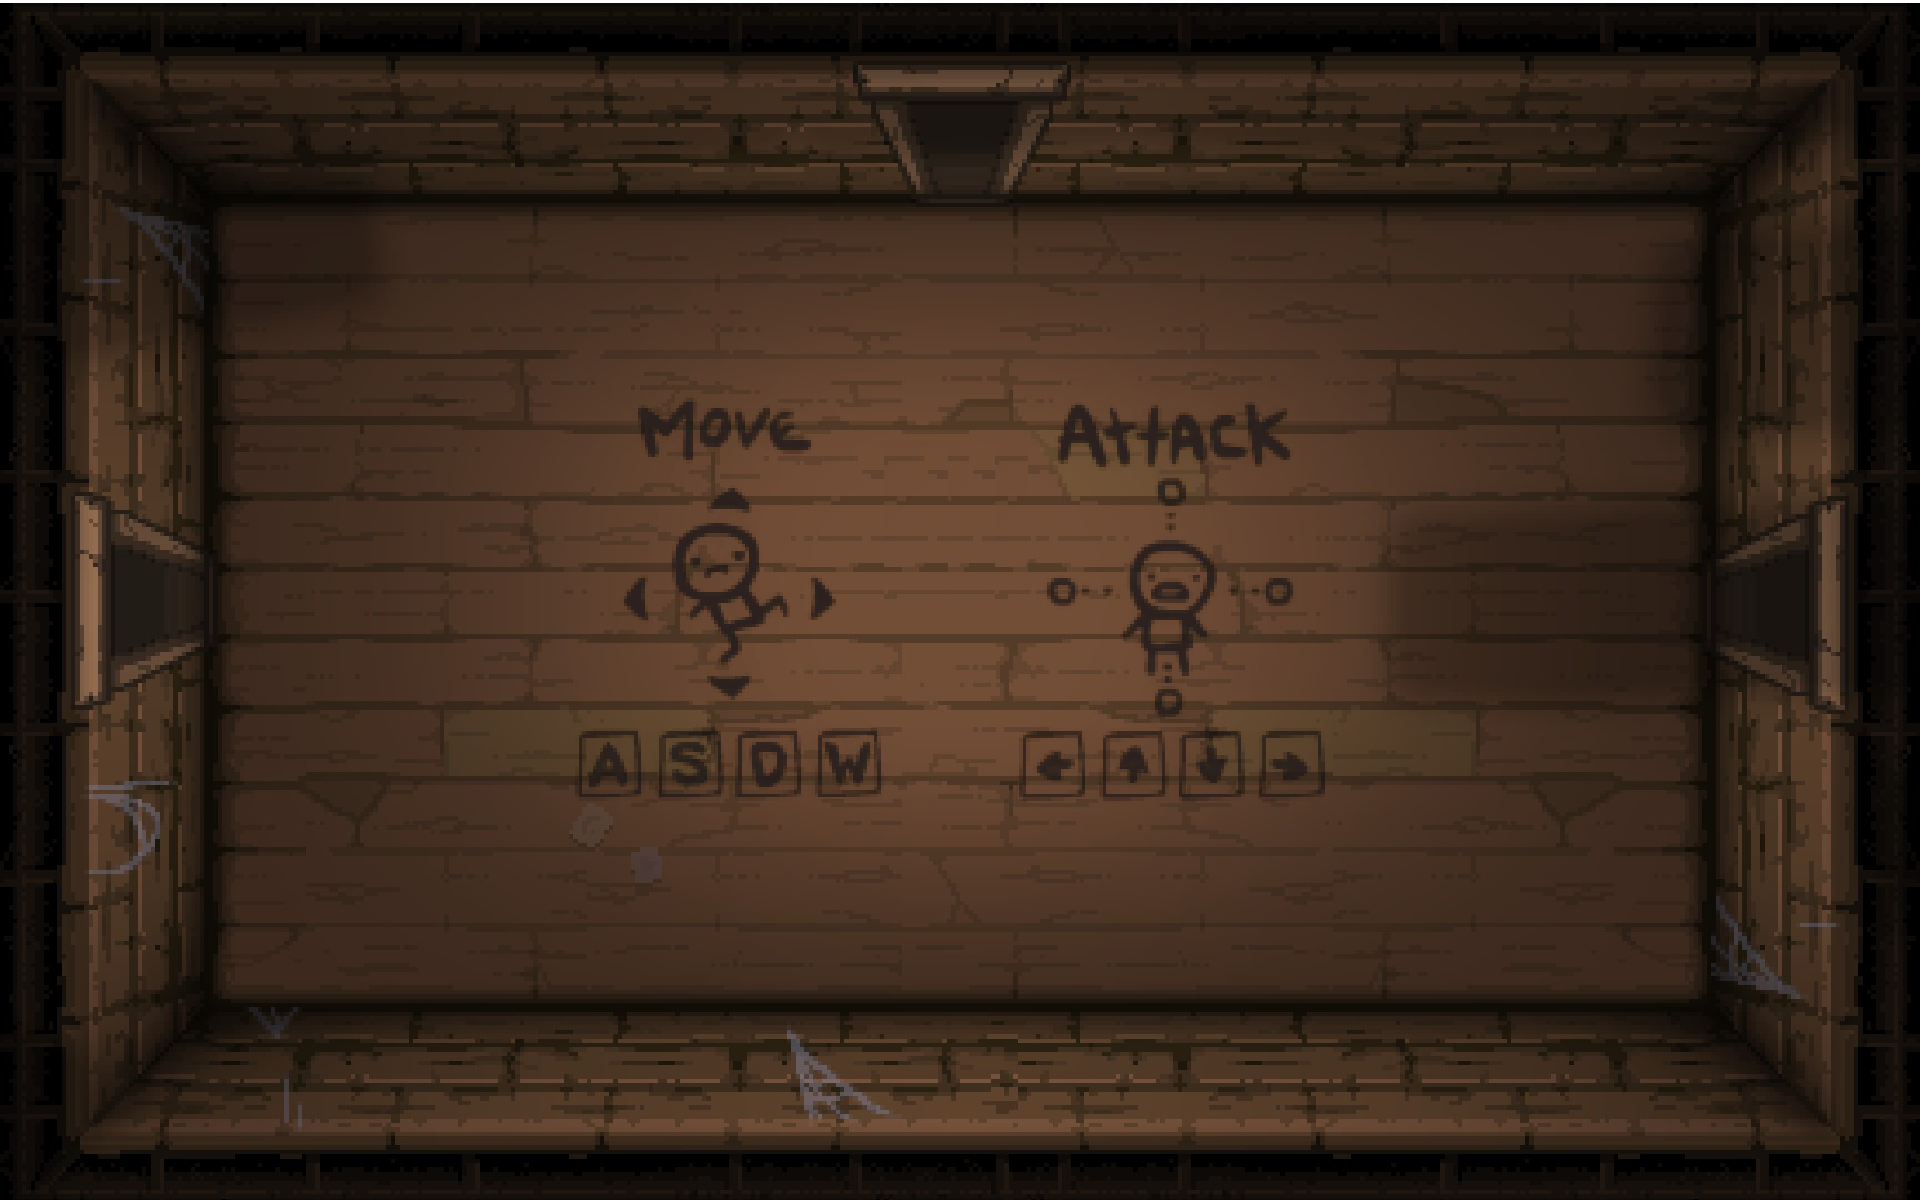
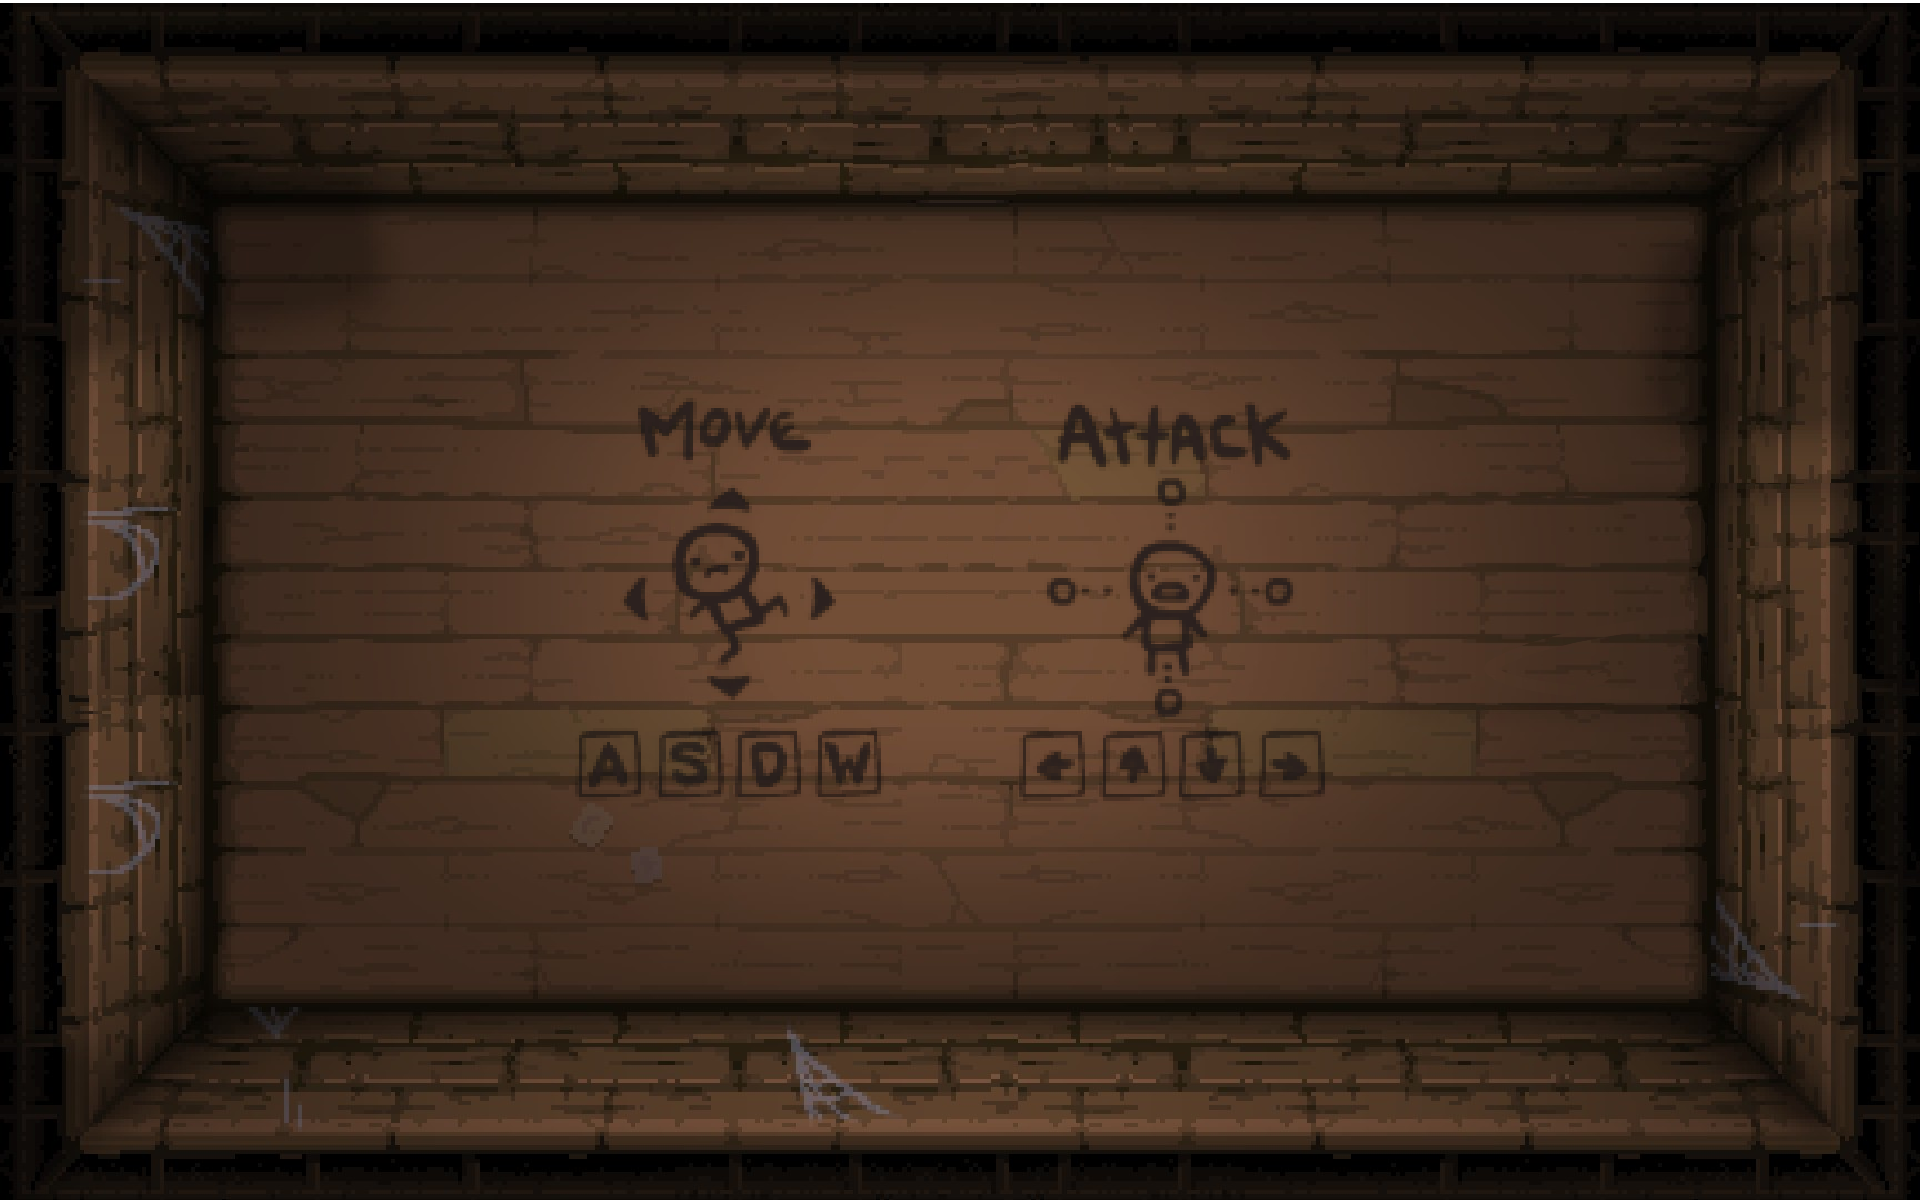
Puertas Aleatorias

diff --git a/ProyectoTBOI/src/Juego.java b/ProyectoTBOI/src/Juego.java
@@ -18,6 +18,7 @@ import javax.sound.sampled.Clip;
 import javax.sound.sampled.LineUnavailableException;
 import javax.sound.sampled.UnsupportedAudioFileException;
 import javax.sound.sampled.FloatControl;
+import java.util.Random;
 
 public class Juego extends JPanel {
 
@@ -29,7 +30,9 @@ public class Juego extends JPanel {
     private static final int BALL_SPEED = 8;
     private static final int FPS = 60;
     private static final int SHOOT_DELAY = 450; //1000 = 1 segundo
-
+    
+    private Random random = new Random();
+    private int numeroAleatorio = random.nextInt(4) + 1; 
     private int characterX;
     private int characterY;
 
@@ -46,11 +49,15 @@ public class Juego extends JPanel {
     private Clip clip;
 
     private float volume;
-    private Objeto caca = new Objeto("resources/popo.png",100,100,100);
+    private Objeto caca = new Objeto("resources/popo.png",70,100,100);
+    private Objeto puertaArriba = new Objeto("resources/puertaArriba.png",80,352,20);
+    private Objeto puertaAbajo = new Objeto("resources/puertaAbajo.png",80,352,395);
+    
+    private Objeto puertaIzquierda = new Objeto("resources/puertaIzquierda.png",80,30,190);
+    private Objeto puertaDerecha = new Objeto("resources/puertaDerecha.png",80,710,190);
     
     public Juego() {
-        iniciarMusica();
-        
+        //iniciarMusica();
         characterX = WIDTH / 2;
         characterY = HEIGHT / 2;
         velocityX = 0;
@@ -62,7 +69,7 @@ public class Juego extends JPanel {
         try {
             isaac = ImageIO.read(new File("resources/isaacola.png"));
             tear = ImageIO.read(new File("resources/normaltear.png"));
-            fondo = ImageIO.read(new File("resources/instrucciones2.png"));
+            fondo = ImageIO.read(new File("resources/instrucciones.png"));
         } catch (IOException e) {
             e.printStackTrace();
         }   
@@ -80,19 +87,36 @@ public class Juego extends JPanel {
         super.paint(g);
         g.clearRect(0, 0, WIDTH, HEIGHT);
 
-       
-        
         //fondo agregado
-        g.drawImage(fondo, 0, 0, WIDTH-16, HEIGHT-39, null);
+        g.drawImage(fondo, 0, 0, WIDTH, HEIGHT-28, null);
         
         g.drawImage(caca.getSprite(),caca.getX(),caca.getY(),caca.getTamaño(),caca.getTamaño(),null);
+        
+       
+
+        switch(numeroAleatorio) {
+        case 1:
+            g.drawImage(puertaArriba.getSprite(),puertaArriba.getX(),puertaArriba.getY(),puertaArriba.getTamaño()+20,puertaArriba.getTamaño()-20,null);
+
+        	break;
+        case 2:
+            g.drawImage(puertaAbajo.getSprite(),puertaAbajo.getX(),puertaAbajo.getY(),puertaAbajo.getTamaño()+20,puertaAbajo.getTamaño()-25,null);
+
+        	break;
+        case 3:
+            g.drawImage(puertaIzquierda.getSprite(),puertaIzquierda.getX(),puertaIzquierda.getY(),puertaIzquierda.getTamaño()-20,puertaIzquierda.getTamaño()+20,null);
+
+        	break;
+        case 4:
+            g.drawImage(puertaDerecha.getSprite(),puertaDerecha.getX(),puertaDerecha.getY(),puertaDerecha.getTamaño()-20,puertaDerecha.getTamaño()+20,null);
+        	break;
+        	
+        }
+
         
         // Dibuja el personaje de Isaac
         g.drawImage(isaac, characterX - CHARACTER_SIZE / 2, characterY - CHARACTER_SIZE / 2, CHARACTER_SIZE,CHARACTER_SIZE, null);
 
-    	
-    	
-    	
         // Dibuja las pelotas
         for (Ball ball : balls) {
             g.drawImage(tear, ball.x - BALL_SIZE / 2, ball.y - BALL_SIZE / 2, BALL_SIZE, BALL_SIZE, null);
@@ -100,18 +124,6 @@ public class Juego extends JPanel {
         
 
     }
-    
-    /*Timer timer2 = new Timer(1000 / FPS, e -> {
-        
-        if (characterX <= 0 || characterX >= WIDTH - 110) {
-            characterX = -(characterX-5);
-        }
-        
-        if (characterY <= 0 || characterY >= HEIGHT - 110) {
-            characterY = -(characterY-5);
-        }
-
-    });*/
     
     private void update() {
         characterX += velocityX;
@@ -126,19 +138,19 @@ public class Juego extends JPanel {
         //si isaac llega a las paredes, detenerlo para que no pueda sobrepasarla
         if (characterX < 90) {
             characterX = 90;
-            velocityX = -velocityX;
+          
         }
-        if (characterX > WIDTH - 110) {
-            characterX = WIDTH - 110;
-            velocityX = -velocityX;
+        if (characterX > WIDTH - 95) {
+            characterX = WIDTH - 95;
+        
         }
         if (characterY < 50) {
             characterY = 50;
-            velocityY = -velocityY;
+           
         }
-        if (characterY > HEIGHT - 140) {
-            characterY = HEIGHT - 140;
-            velocityY = -velocityY;
+        if (characterY > HEIGHT - 135) {
+            characterY = HEIGHT - 135;
+           
         }
 
         // Comprueba si alguna pelota está fuera de los límites de la pantalla o las paredes
